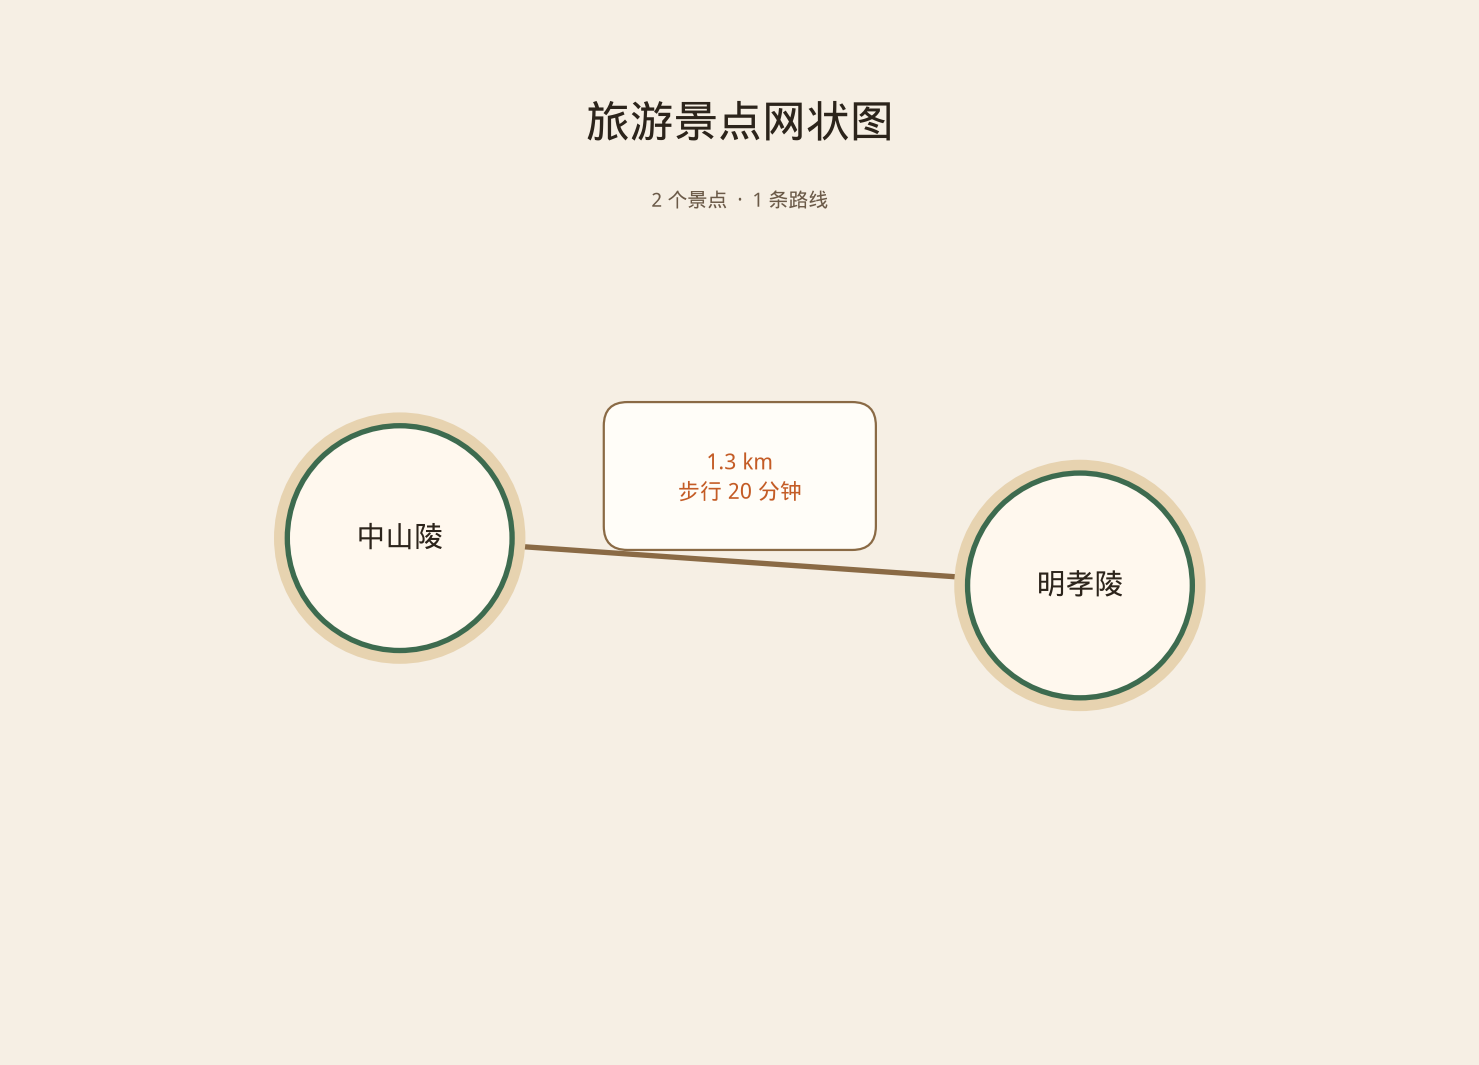
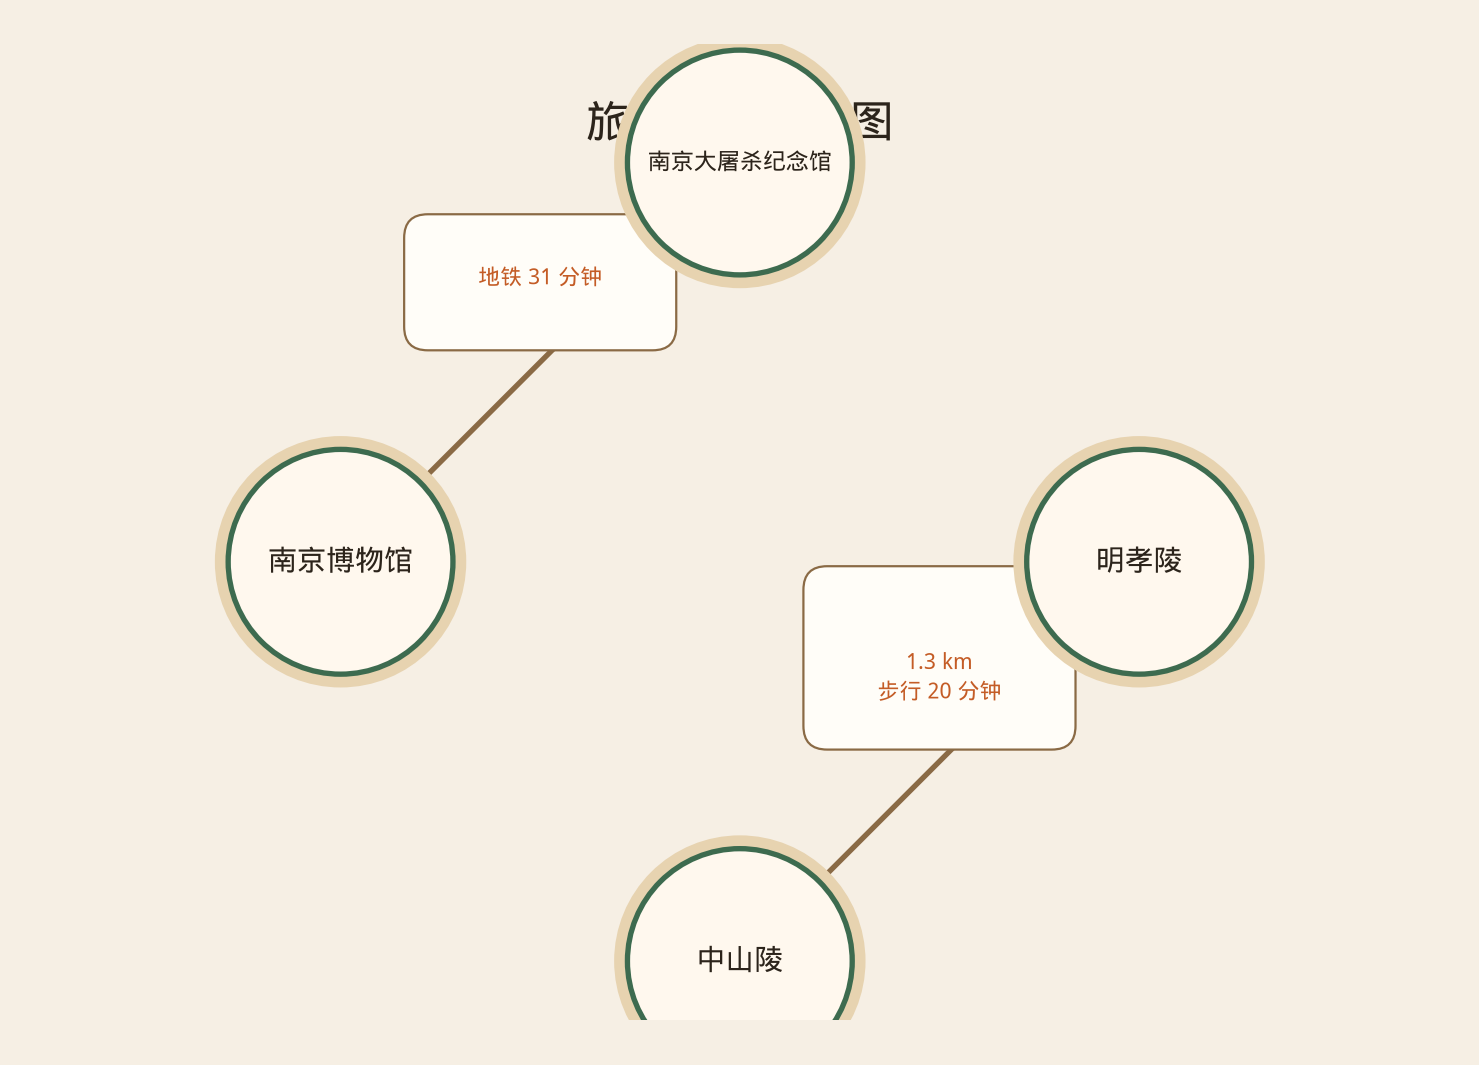
Add memorial and museum nodes with subway edge.
Extend the Nanjing attraction graph with 南京大屠杀纪念馆 and 南京博物馆, connected by a 31-minute subway ride. Edge labels now support time-only routes without distance.

diff --git a/attraction_network/index.html b/attraction_network/index.html
@@ -66,15 +66,23 @@
   "title": "旅游景点网状图",
   "nodes": [
     {"id": "zhongshanling", "name": "中山陵", "city": "南京"},
-    {"id": "mingxiaoling", "name": "明孝陵", "city": "南京"}
+    {"id": "mingxiaoling", "name": "明孝陵", "city": "南京"},
+    {"id": "massacre_memorial", "name": "南京大屠杀纪念馆", "city": "南京"},
+    {"id": "nanjing_museum", "name": "南京博物馆", "city": "南京"}
   ],
   "edges": [
     {
       "from": "zhongshanling",
       "to": "mingxiaoling",
       "distance_km": 1.3,
-      "walk_minutes": 20,
+      "minutes": 20,
       "mode": "步行"
+    },
+    {
+      "from": "massacre_memorial",
+      "to": "nanjing_museum",
+      "minutes": 31,
+      "mode": "地铁"
     }
   ]
 }
@@ -108,21 +116,34 @@
       return n;
     };
 
+    function edgeLabel(edge) {
+      const lines = [];
+      if (edge.distance_km != null) lines.push(`${edge.distance_km} km`);
+      const minutes = edge.minutes ?? edge.walk_minutes;
+      lines.push(`${edge.mode} ${minutes} 分钟`);
+      return lines;
+    }
+
     data.edges.forEach((edge) => {
       const a = pos[edge.from], b = pos[edge.to];
       svg.appendChild(el("line", {
         class: "edge", x1: a.x, y1: a.y, x2: b.x, y2: b.y
       }));
       const mx = (a.x + b.x) / 2, my = (a.y + b.y) / 2 - 28;
+      const lines = edgeLabel(edge);
+      const boxH = lines.length === 1 ? 34 : 48;
       svg.appendChild(el("rect", {
-        class: "label-box", x: mx - 78, y: my - 28, width: 156, height: 48, rx: 10
+        class: "label-box", x: mx - 78, y: my - boxH / 2, width: 156, height: boxH, rx: 10
       }));
-      const t1 = el("text", { class: "edge-label", x: mx, y: my - 6 });
-      t1.textContent = `${edge.distance_km} km`;
-      const t2 = el("text", { class: "edge-label", x: mx, y: my + 14 });
-      t2.textContent = `${edge.mode} ${edge.walk_minutes} 分钟`;
-      svg.appendChild(t1);
-      svg.appendChild(t2);
+      lines.forEach((line, i) => {
+        const t = el("text", {
+          class: "edge-label",
+          x: mx,
+          y: my + (lines.length === 1 ? 5 : i === 0 ? -6 : 14)
+        });
+        t.textContent = line;
+        svg.appendChild(t);
+      });
     });
 
     data.nodes.forEach((node) => {
@@ -130,7 +151,12 @@
       const g = el("g", {});
       g.appendChild(el("circle", { class: "node-halo", cx: p.x, cy: p.y, r: 52 }));
       g.appendChild(el("circle", { class: "node-disk", cx: p.x, cy: p.y, r: 46 }));
-      const name = el("text", { class: "node-name", x: p.x, y: p.y + 6 });
+      const name = el("text", {
+        class: "node-name",
+        x: p.x,
+        y: p.y + 6,
+        "font-size": node.name.length >= 8 ? 12 : node.name.length >= 6 ? 14 : 16
+      });
       name.textContent = node.name;
       g.appendChild(name);
       svg.appendChild(g);

diff --git a/attraction_network/render_graph.py b/attraction_network/render_graph.py
@@ -29,6 +29,23 @@ def load_data() -> dict:
     return json.loads(DATA_PATH.read_text(encoding="utf-8"))
 
 
+def edge_label(edge: dict) -> str:
+    lines: list[str] = []
+    if edge.get("distance_km") is not None:
+        lines.append(f"{edge['distance_km']} km")
+    minutes = edge.get("minutes", edge.get("walk_minutes"))
+    lines.append(f"{edge['mode']} {minutes} 分钟")
+    return "\n".join(lines)
+
+
+def node_font_size(name: str) -> float:
+    if len(name) >= 8:
+        return 10.5
+    if len(name) >= 6:
+        return 11.5
+    return 13.0
+
+
 def layout(n: int) -> list[tuple[float, float]]:
     if n == 1:
         return [(0.0, 0.0)]
@@ -93,12 +110,14 @@ def main() -> None:
             zorder=1,
         )
         mx, my = (x1 + x2) / 2, (y1 + y2) / 2
-        label = f"{edge['distance_km']} km\n{edge['mode']} {edge['walk_minutes']} 分钟"
+        label = edge_label(edge)
+        label_lines = label.count("\n") + 1
+        box_h = 0.22 + 0.16 * label_lines
         ax.add_patch(
             FancyBboxPatch(
                 (mx - 0.42, my + 0.08),
                 0.84,
-                0.42,
+                box_h,
                 boxstyle="round,pad=0.04,rounding_size=0.08",
                 facecolor=LABEL_BG,
                 edgecolor=LINE,
@@ -139,6 +158,10 @@ def main() -> None:
                 zorder=4,
             )
         )
+        label_font = FontProperties(
+            fname=FONT_PATH,
+            size=node_font_size(node["name"]),
+        )
         ax.text(
             x,
             y,
@@ -146,7 +169,7 @@ def main() -> None:
             ha="center",
             va="center",
             color=INK,
-            fontproperties=name_font,
+            fontproperties=label_font,
             zorder=5,
         )
 
